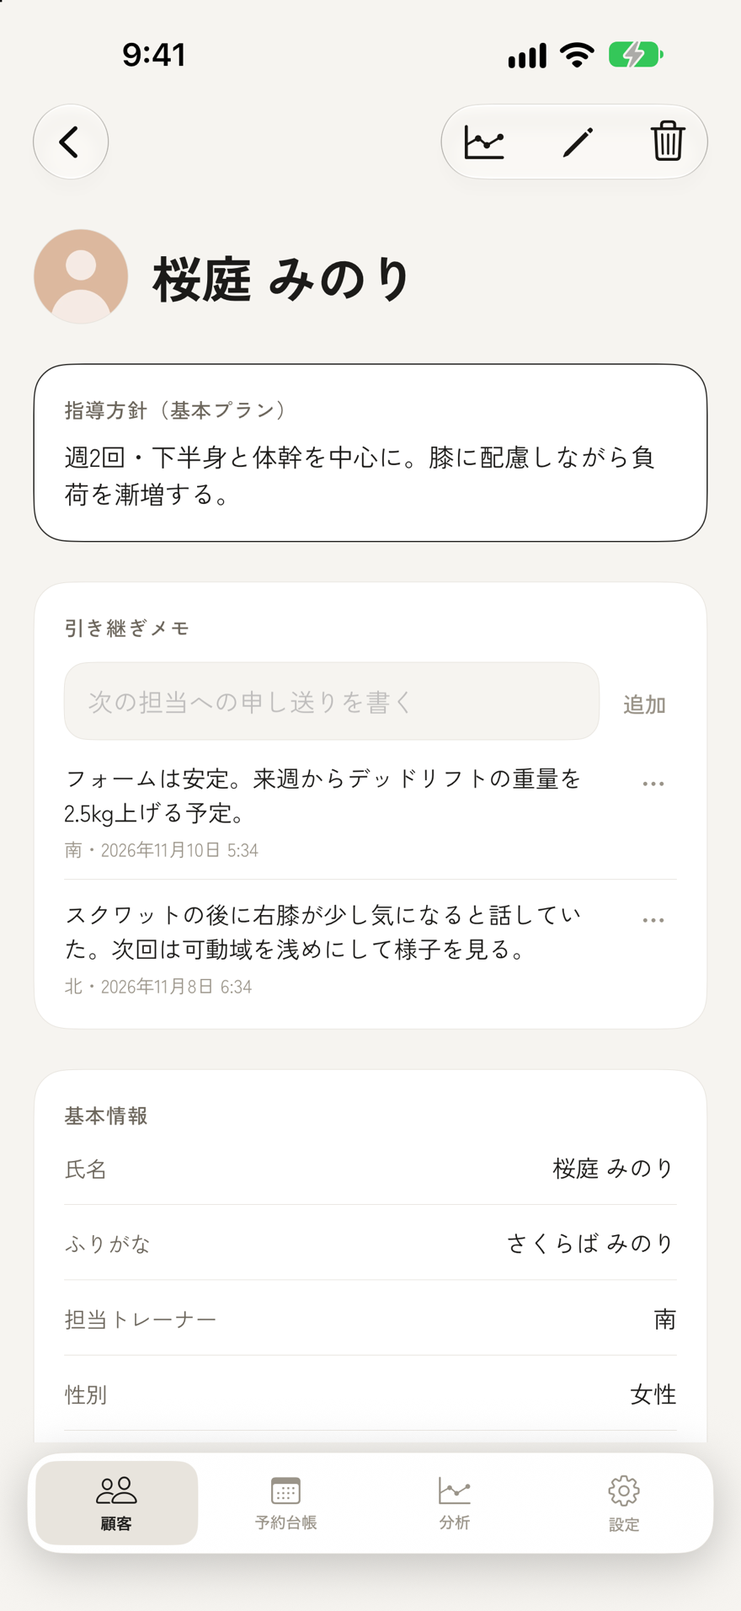
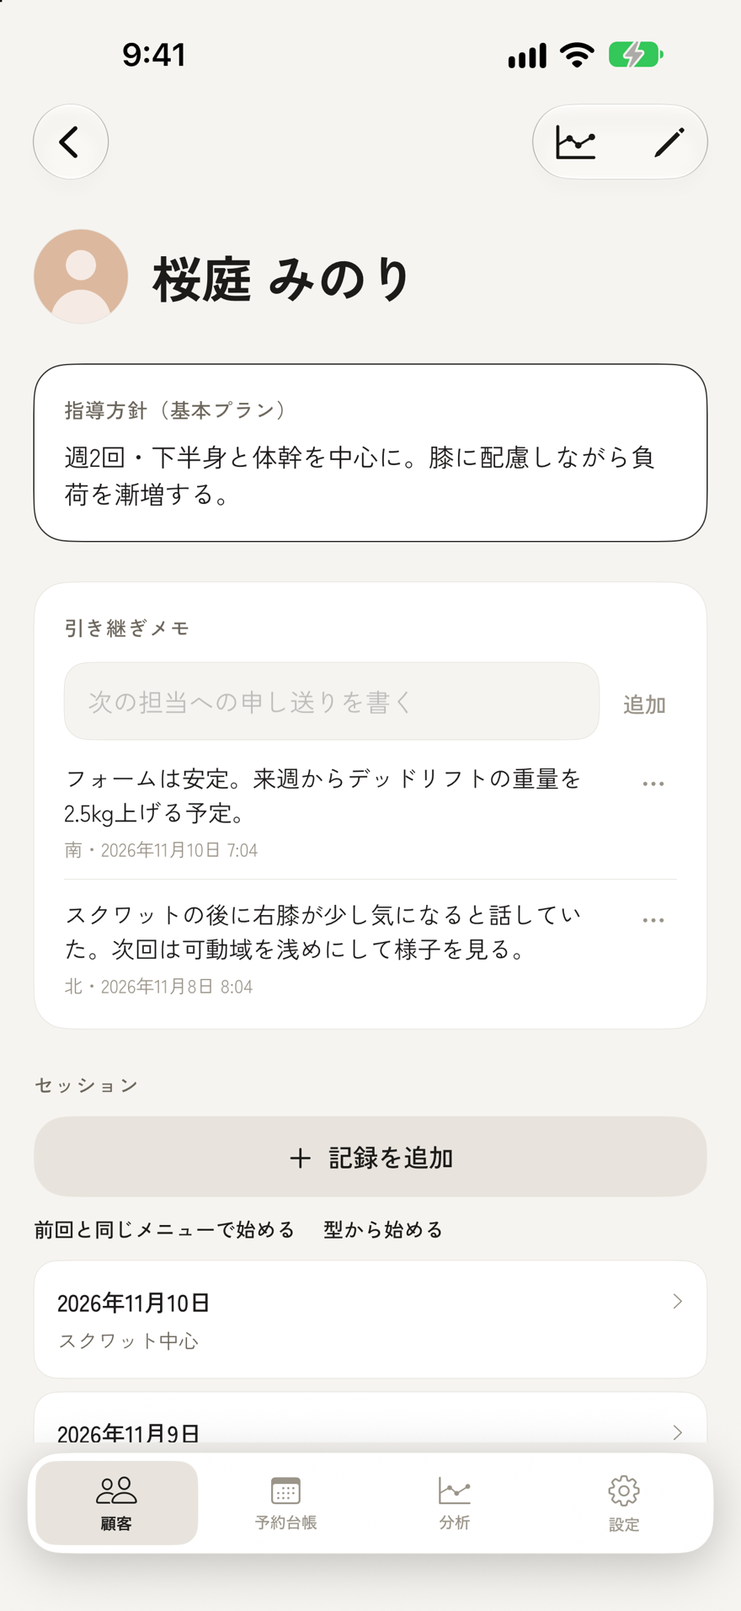
KATACHI + 使い方ガイドをアプリ 1.2 の画面に合わせる
- 設定の新しい並び（店舗情報・スタッフ・記録の設定・データの書き出しとバックアップ）に合わせて場所の説明を直す
- カルテの並び（方針・引き継ぎメモのすぐ下に「記録を追加」）、前回と同じメニュー、種目のまとめ選び、記録のあとの次の一手を追記
- 顧客一覧の前回/次回・今日の予約・見本の顧客、分析の「しばらく来ていない顧客」を追記
- 最初の設定から料金案内の手順を外す
- 画面7枚を 1.2.0 で撮り直し

diff --git a/katachi-plus-guide.html b/katachi-plus-guide.html
@@ -57,23 +57,23 @@
     <header class="guide-head">
       <a class="back" href="./katachi-plus.html">← KATACHI + の紹介へ</a>
       <h1>KATACHI + の<wbr>使い方</h1>
-      <div class="updated">2026年11月10日 更新</div>
+      <div class="updated">2026年11月10日 更新・バージョン 1.2 の画面に合わせています</div>
       <p class="lede">店舗を作るところから、毎日の記録、スタッフやお客さまとの共有までを説明します。最初の記録までは、下の3ステップだけです。</p>
 
       <h2 id="quick">最初の記録まで、3ステップ</h2>
-      <p>アプリを開くと案内が出るので、「自分の店舗を作る」を選んで店舗名を入れます。あとは次の3つです。</p>
+      <p>アプリを開くと案内が出るので、「自分の店舗を作る」を選んで店舗名を入れます。あとは次の3つです。試すだけなら、顧客の画面の「見本の顧客を入れてみる」で架空の顧客を1人入れられます。</p>
       <ol class="quick-steps">
         <li>
-          <span class="shot"><img src="./assets/screens/katachi-plus-kokyaku.png" alt="顧客の一覧。上に「顧客を追加」のボタンがある" width="880" height="1912"><span class="tap" style="left:5%;top:33.1%;width:90%;height:5.2%" aria-hidden="true"></span></span>
+          <span class="shot"><img src="./assets/screens/katachi-plus-kokyaku.png" alt="顧客の一覧。上に「顧客を追加」のボタンがある" width="880" height="1912"><span class="tap" style="left:5%;top:42.7%;width:90%;height:5.5%" aria-hidden="true"></span></span>
           <div><h3>顧客を追加する</h3><p>「顧客」タブの「顧客を追加」を押します。</p></div>
         </li>
         <li>
-          <span class="shot"><img src="./assets/screens/katachi-plus-tsuika.png" alt="顧客を追加する画面。氏名の入力欄がある" width="880" height="1912"><span class="tap" style="left:6%;top:32.9%;width:88%;height:5.2%" aria-hidden="true"></span></span>
+          <span class="shot"><img src="./assets/screens/katachi-plus-tsuika.png" alt="顧客を追加する画面。氏名の入力欄がある" width="880" height="1912"><span class="tap" style="left:8%;top:33.5%;width:84%;height:5.6%" aria-hidden="true"></span></span>
           <div><h3>氏名を入れる</h3><p>必須は氏名だけです。右上の「追加」で保存します。</p></div>
         </li>
         <li>
-          <span class="shot"><img src="./assets/screens/katachi-plus-record.png" alt="セッション記録の画面。種目ごとにセットが並び、下に「種目を追加」がある" width="880" height="1912"><span class="tap" style="left:5%;top:76.3%;width:90%;height:5.2%" aria-hidden="true"></span></span>
-          <div><h3>セッションを記録する</h3><p>顧客を開いて下へ送り、「セッション」の「記録を追加」を押します。種目を選んでセットを足し、「完了」。</p></div>
+          <span class="shot"><img src="./assets/screens/katachi-plus-karte.png" alt="顧客のカルテ。指導方針と引き継ぎメモの下に「記録を追加」がある" width="880" height="1912"><span class="tap" style="left:5%;top:69.7%;width:90%;height:5.7%" aria-hidden="true"></span></span>
+          <div><h3>セッションを記録する</h3><p>顧客を開いて「記録を追加」を押します。種目を選んでセットを足し、「完了」。</p></div>
         </li>
       </ol>
 
@@ -159,18 +159,16 @@
     </ul>
 
     <h3 id="first">最初の設定</h3>
-    <p>はじめてアプリを開くと、案内の画面が順に出ます。</p>
+    <p>はじめてアプリを開くと、案内の画面が順に出ます。料金の案内はここでは出ません。プランは、必要になったときに設定の「ご契約」から選べます。</p>
     <ol class="steps">
       <li><strong>ようこそ</strong>：できることを確かめて「次へ」を押します。</li>
       <li><strong>同意</strong>：「利用規約を読む」「プライバシーポリシーを読む」で内容を確かめ、4つの項目すべてにチェックを入れて「同意して始める」を押します。</li>
-      <li><strong>iCloud の確認</strong>：「iCloud を使えます」と出れば、そのまま「次へ」。</li>
-      <li><strong>使い方を選ぶ</strong>：自分で店舗を開くなら「自分の店舗を作る」、オーナーから招待されたなら「招待されて参加する」を選びます。</li>
-      <li><strong>ご契約のご案内</strong>：プランを選んで購入するか、「まず無料で使う（顧客5人まで）」で先に進みます。</li>
+      <li><strong>使い方を選ぶ</strong>：自分で店舗を開くなら「自分の店舗を作る（オーナー）」、オーナーから招待されたなら「招待されて参加する（スタッフ）」を選びます。まだ決められないときは「あとで決める」で先に進めます。</li>
       <li>「準備ができました」と出たら「はじめる」を押します。</li>
     </ol>
     <details class="more">
-      <summary>「iCloud にサインインしていません」と出たとき</summary>
-      <p>iPhone の設定アプリを開き、上部の Apple アカウントでサインインして「iCloud」をオンにしてから、「もう一度確認」を押します。iCloud が使えなくても先へ進めますが、店舗の共有はできません。</p>
+      <summary>「iCloud の確認」の画面が出たとき</summary>
+      <p>iCloud が使える状態なら、この画面は出ません。出たときは、iPhone の設定アプリを開き、上部の Apple アカウントでサインインして「iCloud」をオンにしてから、「もう一度確認」を押します。iCloud が使えなくても先へ進めますが、店舗の共有はできません。</p>
     </details>
     <details class="more">
       <summary>案内をもう一度見たいとき</summary>
@@ -190,7 +188,7 @@
       <tr><th>ヨガ</th><td>ポーズごとに呼吸数・左右・バリエーションを記録します。</td></tr>
       <tr><th>ストレッチ</th><td>部位ごとに保持時間と強さ、前後の柔軟性（cm）を記録します。</td></tr>
     </table>
-    <p>店舗を作ると、その業種でよく使う種目と、同意書のひな形が最初から入っています。業種はあとから設定の「業種」で変えられ、変えてもこれまでの記録や種目はそのまま残ります。</p>
+    <p>店舗を作ると、その業種でよく使う種目と、同意書のひな形が最初から入っています。業種はあとから設定の「店舗情報」にある「業種」で変えられ、変えてもこれまでの記録や種目はそのまま残ります。</p>
     <h4>店舗を切り替える</h4>
     <p>「顧客」タブ上部の店舗名を押すと、店舗の一覧が出ます。いくつかの店舗を持っている・参加しているときは、ここで切り替えます。「予約台帳」「分析」「設定」の各タブは、ここで選んだ店舗の内容になります。</p>
 
@@ -205,23 +203,31 @@
           <li>「氏名」を入れます。必須はこれだけで、ほかの項目はあとから入れられます。</li>
           <li>右上の「追加」で保存します。</li>
         </ol>
-        <p>はじめて追加するときに「自分の担当名」を聞かれます。スタッフと使うなら入れておくと、一覧を自分の担当だけに絞り込めます（<a href="#staffname">担当名と、担当での絞り込み</a>）。1人で使うなら「あとで設定する」で構いません。</p>
+        <p>スタッフと使っている店舗では、はじめて追加するときに「自分の担当名」を聞かれます（<a href="#staffname">担当名と、担当での絞り込み</a>）。1人で使っている店舗では聞かれません。</p>
+        <h4>顧客の一覧の見方</h4>
+        <p>行には、名前の下に前回のセッションの日付と、次回の予定が出ます。並び順（名前・最終来店日・次回予定）は、見出し「顧客」の右で変えます。今日の予約があるときは、いちばん上に「今日の予約」が出て、名前を押すとその顧客のカルテが開きます。</p>
         <h4>カルテの見方</h4>
-        <p>一覧の顧客を押すと、カルテが開きます。上から「指導方針（基本プラン）」「引き継ぎメモ」「基本情報」「予約」「カウンセリング」と並び、その下に「セッション」「KATACHI 連携」「同意書」「体組成・周径」「姿勢写真」が続きます。</p>
+        <p>一覧の顧客を押すと、カルテが開きます。上から「指導方針（基本プラン）」「引き継ぎメモ」「セッション」と並び、その下に「基本情報」「予約」「カウンセリング」「KATACHI 連携」「同意書」「体組成・周径」「姿勢写真」が続きます。iPad と Mac では2列になります。</p>
         <p>引き継ぎメモは「次の担当への申し送りを書く」に書いて「追加」を押します。書いた人と日時が残り、店舗のスタッフ全員が見られます。</p>
+        <p>顧客の編集は右上のペンのボタン、削除はカルテのいちばん下の「この顧客を削除」です。</p>
       </div>
       <figure>
         <span class="shot"><img src="./assets/screens/katachi-plus-karte.png" alt="KATACHI + の顧客カルテ。指導方針と引き継ぎメモが上に並ぶ" width="880" height="1912" loading="lazy"></span>
-        <figcaption>カルテ。方針と引き継ぎメモが上に。</figcaption>
+        <figcaption>カルテ。方針と引き継ぎメモのすぐ下に「記録を追加」。</figcaption>
       </figure>
     </div>
+    <details class="more">
+      <summary>まず試したいときは、見本の顧客</summary>
+      <p>顧客がまだ1人もいない店舗（自分の店舗で、誰とも共有していないもの）では、顧客の画面に「見本の顧客を入れてみる」が出ます。押すと、架空の顧客が1人、過去のセッション3回ぶんと一緒に入ります。前回の値が出るようす、グラフ、顧客へのレポートを、自分の顧客を入れる前に試せます。</p>
+      <p>見本の顧客は、無料の5人には数えません。いらなくなったら、一覧の上の「見本を消す」で消せます。</p>
+    </details>
     <details class="more">
       <summary>カルテに入れられる項目</summary>
       <table>
         <tr><th>基本情報</th><td>顔写真、氏名、ふりがな、担当トレーナー、性別、生年月日、電話、メール</td></tr>
         <tr><th>目的・指導方針</th><td>目的（業種ごとの候補から選べます）、指導方針（基本プラン）</td></tr>
         <tr><th>カウンセリング</th><td>数値目標、気になる部位（人体図）、普段の運動、運動歴、食生活の概要。ピラティス・ヨガ・ストレッチの店舗では、業種ごとの質問も加わります。</td></tr>
-        <tr><th>次回予定（メモ）</th><td>次回予定日と次回担当のメモです。予約台帳とは別のものです。</td></tr>
+        <tr><th>次回予定（メモ）</th><td>次回予定日と次回担当のメモです。予約台帳に予定の予約があるときは、カルテと一覧にはそちらが「次回」として出ます。</td></tr>
         <tr><th>配慮事項・メモ</th><td>自由に書けます。配慮事項には、体調面で気をつけることだけを書き、病名・既往歴・服薬は書かないでください。</td></tr>
       </table>
       <p>「気になる部位」は、正面と背面の人体図で部位を押して選びます。もう一度押すと外れます。</p>
@@ -231,12 +237,13 @@
     <div class="guide-split">
       <div>
         <ol class="steps">
-          <li>顧客のカルテを開いて下へ送り、「セッション」の「記録を追加」を押します。</li>
-          <li>「種目を追加」で種目を選びます。前に同じ種目を記録していれば、「前回：60kg×10 ・ 60kg×8」のように前回の内容が出ます。</li>
+          <li>顧客のカルテを開き、「セッション」の「記録を追加」を押します。前に記録があれば、「前回と同じメニューで始める」で、前回の種目が並んだ状態から始められます。</li>
+          <li>「種目を追加」を押し、行う種目にチェックを付けて、右上の「追加」を押します。いくつでもまとめて選べ、上の欄で検索もできます。前に同じ種目を記録していれば、「前回：60kg×10 ・ 60kg×8」のように前回の内容が出ます。</li>
           <li>「セットを追加」でセットを足します。直前のセットと同じ値が入った状態で増えるので、同じ重量・回数なら数字を直す必要はありません。</li>
           <li>終わったら「完了」を押します。入力するたびに自動で保存されるので、保存ボタンはありません。</li>
         </ol>
-        <p>記録の日付は、記録を始めた日になります。過去の分を入れるときは、記録画面の上の「日付」を変えてください。</p>
+        <p>記録を閉じると、カルテに「記録しました」と出て、そこから「レポートを送る」「次回の予約を入れる」に進めます。</p>
+        <p>記録の日付は、記録を始めた日になります。過去の分を入れるときは、記録画面のいちばん上の行の「変更」を押して、日付を変えてください。記録した人も同じ場所で変えられます。</p>
         <p>予約台帳を使っているなら、予約から直接記録を始めることもできます（<a href="#booking">予約台帳を使う</a>）。</p>
       </div>
       <figure>
@@ -246,8 +253,8 @@
     </div>
     <details class="more">
       <summary>毎回同じメニューなら「メニューの型」</summary>
-      <p>設定の「記録・担当の設定」にある「メニューの型」で、「追加」から型を作れます。型の名前を付け、種目を行う順に押して選びます。型を作っておくと、カルテの「セッション」に「型から始める」が出て、種目が並んだ状態で記録を始められます。型に入るのは種目の並びだけで、重量や回数はその日に入れます。</p>
-      <p>種目の追加・並べ替え・非表示は、同じ「記録・担当の設定」の「種目ライブラリ」で行えます。</p>
+      <p>設定の「記録の設定」（Mac は店舗設定の「記録・担当の設定」）にある「メニューの型」で、「追加」から型を作れます。型の名前を付け、種目を行う順に押して選びます。型を作っておくと、カルテの「セッション」に「型から始める」が出て、種目が並んだ状態で記録を始められます。型に入るのは種目の並びだけで、重量や回数はその日に入れます。</p>
+      <p>種目の追加・並べ替え・非表示は、同じ場所の「種目ライブラリ」で行えます。</p>
     </details>
     <details class="more">
       <summary>業種ごとの入力欄</summary>
@@ -267,11 +274,11 @@
     <h3 id="report">顧客へのレポートを送る</h3>
     <p>その日の記録を PDF にして、顧客に送れます。ご契約がなくても作れます。</p>
     <ol class="steps">
-      <li>セッション記録の右上の「レポート」を押します。カルテのセッションを長押しして「顧客へのレポートを作成」を選んでも開けます。</li>
+      <li>記録を閉じたあとにカルテに出る「レポートを送る」か、セッション記録の右上の「レポート」を押します。カルテのセッションを長押しして「顧客へのレポートを作成」を選んでも開けます。</li>
       <li>必要なら「トレーナーからのコメント（任意）」を書きます。下に、できあがりの PDF が表示されます。</li>
       <li>「共有」から、LINE・メール・AirDrop などで顧客に送ります（Mac は「印刷」「書き出す」）。</li>
     </ol>
-    <p>レポートには、その日の記録、当日のコンディション、最近の推移が入ります。コメントは保存されず、そのレポートにだけ入ります。</p>
+    <p>レポートには、その日の記録、当日のコンディション、最近の推移が入ります。コメントは書いた端末に残り、同じ記録のレポートを開き直すと元のまま出ます。</p>
 
     <h3 id="booking">予約台帳を使う</h3>
     <p>LINE や電話、外部の予約サービスで受けた予約を、店舗のみんなで記録する台帳です。顧客が自分で予約する機能や、顧客への通知はありません。</p>
@@ -300,7 +307,7 @@
     <h3 id="progress">体の変化を残す・見る</h3>
     <h4>体組成・周径</h4>
     <p>カルテの「体組成・周径」で「測定を追加」を押し、体重・体脂肪率、周径（胸・ウエスト・ヒップ・太もも・二の腕）を入れます。セッションの前と後に柔軟性（cm）を測って残すこともできます。入力欄の横には、前回の値が出ます。</p>
-    <p>ヨガ・ストレッチの店舗では、最初は体組成・周径が表示されず、「柔軟性チェック」になっています。使いたいときは、設定の「業種」で「体組成・周径を表示する」をオンにします。</p>
+    <p>ヨガ・ストレッチの店舗では、最初は体組成・周径が表示されず、「柔軟性チェック」になっています。使いたいときは、設定の「店舗情報」にある「業種」で「体組成・周径を表示する」をオンにします。</p>
     <h4>姿勢写真</h4>
     <p>カルテの「姿勢写真」で「写真を追加」を押し、向き（正面・側面・背面）を選んで、撮影するかライブラリから選びます。写真が2枚以上になると「比較」が出て、同じ向きの写真を前と後で並べ、格子線を重ねて見比べられます。</p>
     <h4>グラフ</h4>
@@ -315,7 +322,7 @@
     <p>保存した同意書は押すと開き、「共有」から送ったり保存したりできます（Mac は「印刷」「書き出す」）。署名は iPhone か iPad で行ってください。</p>
     <details class="more">
       <summary>同意書の文面を店舗に合わせる</summary>
-      <p>設定の「同意書」にある「同意書テンプレート」で直せます。最初に入っているのはひな形なので、使う前に一度目を通してください。本文の {店舗名} と {店舗の連絡先} は、署名のときに自動で差し込まれます。連絡先は、設定の店舗情報で入れておきます。</p>
+      <p>設定の「記録の設定」（Mac は店舗設定の「同意書」）にある「同意書テンプレート」で直せます。最初に入っているのはひな形なので、使う前に一度目を通してください。本文の {店舗名} と {店舗の連絡先} は、署名のときに自動で差し込まれます。連絡先は、設定の店舗情報で入れておきます。</p>
     </details>
 
     <h2 id="team">スタッフと使う</h2>
@@ -325,7 +332,7 @@
     <div class="guide-split">
       <div>
         <ol class="steps">
-          <li>「設定」タブを開きます（Mac は左の「店舗設定」）。「店舗情報」の下に、招待の欄があります。</li>
+          <li>「設定」タブの「スタッフ」を開きます（Mac は左の「店舗設定」にある「スタッフを招待」）。</li>
           <li>「メールアドレス」に、スタッフの <strong>Apple アカウントのメールアドレス</strong>を入れて「招待する」を押します。</li>
           <li>「招待しました」と出たら、「招待を送る（LINE・メールなど）」で招待のリンクをスタッフに送ります。「リンクをコピー」でコピーして、自分で貼り付けて送ることもできます。</li>
           <li>スタッフが参加すると、「メンバー」の一覧で「参加済み」と表示されます。</li>
@@ -333,8 +340,8 @@
         <div class="callout">参加できるのは、招待したメールアドレスの Apple アカウントだけです。リンクを転送されただけの人は参加できません。</div>
       </div>
       <figure>
-        <span class="shot"><img src="./assets/screens/katachi-plus-settei.png" alt="KATACHI + の設定タブ。ご契約、使い方、店舗情報の順に並ぶ" width="880" height="1912" loading="lazy"></span>
-        <figcaption>設定タブ。店舗情報の下に招待の欄。</figcaption>
+        <span class="shot"><img src="./assets/screens/katachi-plus-settei.png" alt="KATACHI + の設定タブ。ご契約、使い方、店舗の順に並び、店舗の中にスタッフの行がある" width="880" height="1912" loading="lazy"></span>
+        <figcaption>設定タブ。「店舗」の中の「スタッフ」から招待。</figcaption>
       </figure>
     </div>
     <table>
@@ -346,7 +353,7 @@
     <ol class="steps">
       <li>App Store で KATACHI + を入れ、最初の設定を進めます。使い方は「招待されて参加する」を選びます。</li>
       <li><strong>iPhone・iPad</strong>：オーナーから届いたリンクを押すと、そのまま参加できます。</li>
-      <li>「（店舗名）に参加しました」と出れば完了です。参加した店舗が開きます。</li>
+      <li>「（店舗名）に参加しました」と出れば完了です。参加した店舗が開きます。続けて「この店舗での名前」を聞かれるので、自分の名前を入れます（あとから変えられます）。</li>
     </ol>
     <p>参加するには、スタッフ自身のご契約が必要です。ご契約の前にリンクを開いたときはプランの画面が出て、購入が済むと自動で参加します。</p>
     <details class="more">
@@ -355,18 +362,18 @@
     </details>
 
     <h3 id="staffname">担当名と、担当での絞り込み</h3>
-    <p>スタッフが何人かいる店舗で、「自分の担当の顧客だけ」を見るためのしくみです。1人で使うなら、設定しなくても困りません。</p>
+    <p>スタッフが何人かいる店舗で、「自分の担当の顧客だけ」を見るためのしくみです。1人で使っている店舗（共有していない・担当トレーナーを登録していない・顧客に担当を入れていない）では、担当の並びは表示されません。</p>
     <table>
       <tr><th>自分の担当名</th><td>この端末を使っている人の名前です。設定の「この端末」で入れます（Mac は ⌘, の「設定」ウインドウ）。顧客一覧の「自分」の絞り込み、記録した人、予約の担当に使われます。</td></tr>
-      <tr><th>担当トレーナー</th><td>店舗の担当者の名簿です。顧客一覧の担当の並びの右端にある「＋」か、設定の「記録・担当の設定」の「担当トレーナー」で、追加・名前の変更・削除ができます。</td></tr>
+      <tr><th>担当トレーナー</th><td>店舗の担当者の名簿です。設定の「記録の設定」（Mac は店舗設定の「記録・担当の設定」）にある「担当トレーナー」か、顧客一覧の担当の並びの右端にある「＋」で、追加・名前の変更・削除ができます。</td></tr>
       <tr><th>担当の並び</th><td>顧客一覧と予約台帳の上にある「自分」「全員」と担当者の名前です。押すと、その人が担当の顧客・予約だけになります。見え方を絞るだけで、スタッフはどの顧客も開けます。</td></tr>
     </table>
     <p>顧客の担当は、カルテの編集で「担当トレーナー」から選びます。新しく追加する顧客には、自分の担当名が最初から入ります。</p>
 
     <h3 id="remove">スタッフを外す・店舗から抜ける</h3>
     <ul>
-      <li><strong>オーナー</strong>：設定の「メンバー」で、外す人の「外す」を押します。押す前に相手を確かめてください。外れたスタッフの端末からは、次にアプリを開いたときに店舗の記録が消えます。すでに書き出した PDF などは残ります。</li>
-      <li><strong>スタッフ</strong>：設定の下の「この店舗から抜ける」を押します。この端末から店舗のデータが消えます。オーナー側のデータは消えません。</li>
+      <li><strong>オーナー</strong>：設定の「スタッフ」にある「メンバー」で、外す人の「外す」を押します。押す前に相手を確かめてください。外れたスタッフの端末からは、次にアプリを開いたときに店舗の記録が消えます。すでに書き出した PDF などは残ります。</li>
+      <li><strong>スタッフ</strong>：設定の「スタッフ」にある「この店舗から抜ける」を押します。この端末から店舗のデータが消えます。オーナー側のデータは消えません。</li>
     </ul>
 
     <h2 id="link">お客さまの KATACHI とつなぐ</h2>
@@ -382,8 +389,8 @@
 
     <h3 id="link-start">連携を始める（オーナー）</h3>
     <ol class="steps">
-      <li>顧客のカルテを開き、「KATACHI 連携」の「お客さまのメール」に、お客さまが iPhone の iCloud で使っている <strong>Apple アカウントのメールアドレス</strong>を入れます。</li>
-      <li>「お客さまの KATACHI とつなぐ」を押します。状態が「招待中」になります。</li>
+      <li>顧客のカルテの「KATACHI 連携」で、「お客さまの KATACHI とつなぐ」を押して開きます。</li>
+      <li>「お客さまのメール」に、お客さまが iPhone の iCloud で使っている <strong>Apple アカウントのメールアドレス</strong>を入れて、「お客さまの KATACHI とつなぐ」を押します。状態が「招待中」になります。</li>
       <li>「招待を送る（LINE・メールなど）」で、招待の文面とリンクをお客さまに送ります。</li>
       <li><strong>お客さまの操作</strong>：KATACHI を開き、設定の「トレーナーとの連携」で「リンクを貼り付けて参加」を押して、届いたリンクを貼り付けます。内容を確かめて「同意して参加」を押すと、つながります。</li>
       <li>カルテの状態が「連携中」になれば完了です。</li>
@@ -414,6 +421,7 @@
           <li>上部で「店舗全体」と担当者を切り替えます。</li>
           <li>期間は「6か月」「12か月」から選べます。</li>
           <li>店舗全体のときは、「担当者ごと」の表も出ます。行を押すと、その担当者の分析に切り替わります。</li>
+          <li>「しばらく来ていない顧客」に、最後のセッションから30日以上たっている顧客が、空いている日数の長い順に出ます。</li>
         </ul>
         <p>実施率は、実施済み ÷（実施済み＋無断キャンセル）で計算しています。</p>
       </div>
@@ -424,7 +432,7 @@
     </div>
 
     <h3 id="export">書き出しとバックアップ（オーナー）</h3>
-    <p>どれも設定の「データの書き出し」と、その下のバックアップの欄から行います。</p>
+    <p>どれも設定の「データの書き出しとバックアップ」から行います（Mac は店舗設定の「データの書き出し」と、その下のバックアップの欄）。</p>
     <table>
       <tr><th>CSV で書き出す</th><td>「顧客を CSV で書き出す」「セッションを CSV で書き出す」。Excel で開けます。</td></tr>
       <tr><th>CSV から取り込む</th><td>「取り込み用のひな形（CSV）」に記入して、「顧客を CSV から取り込む」を押します。紙やほかのアプリからの乗り換えに使います。</td></tr>
@@ -467,21 +475,25 @@
     <p>セッション記録では、Return か Tab で 重量 → 回数 → 次のセット と進み、最後の回数で Return を押すと新しいセットが足されます。写真は Finder からドロップして入れられます。同意書の署名は、iPhone か iPad で行ってください。</p>
 
     <h2 id="trouble">困ったとき</h2>
-    <p>場所が分からないときの早見表と、よくあるつまずきです。</p>
+    <p>場所が分からないときの早見表と、よくあるつまずきです。早見表は iPhone・iPad の場合です。Mac では、設定の中身が左の「店舗設定」に1枚で並びます。</p>
 
     <h3 id="where">あの機能はどこ？</h3>
     <table>
       <tr><th>店舗を切り替える・増やす</th><td>「顧客」タブ上部の店舗名</td></tr>
-      <tr><th>スタッフを招待する</th><td>設定 → 「店舗情報」の下（オーナーのみ）</td></tr>
+      <tr><th>スタッフを招待する</th><td>設定 → 「スタッフ」（オーナーのみ）</td></tr>
       <tr><th>自分の担当名を変える</th><td>設定 → 「この端末」</td></tr>
-      <tr><th>担当トレーナーを足す</th><td>顧客一覧の担当の並びの「＋」</td></tr>
-      <tr><th>種目を足す・並べ替える</th><td>設定 → 「記録・担当の設定」 → 「種目ライブラリ」</td></tr>
-      <tr><th>メニューの型を作る</th><td>設定 → 「記録・担当の設定」 → 「メニューの型」</td></tr>
-      <tr><th>同意書の文面を直す</th><td>設定 → 「同意書」 → 「同意書テンプレート」</td></tr>
+      <tr><th>担当トレーナーを足す</th><td>設定 → 「記録の設定」 → 「担当トレーナー」</td></tr>
+      <tr><th>種目を足す・並べ替える</th><td>設定 → 「記録の設定」 → 「種目ライブラリ」</td></tr>
+      <tr><th>メニューの型を作る</th><td>設定 → 「記録の設定」 → 「メニューの型」</td></tr>
+      <tr><th>同意書の文面を直す</th><td>設定 → 「記録の設定」 → 「同意書テンプレート」</td></tr>
+      <tr><th>業種を変える</th><td>設定 → 「店舗情報」 → 「業種」</td></tr>
+      <tr><th>顧客の並び順を変える</th><td>顧客一覧の見出し「顧客」の右</td></tr>
+      <tr><th>顧客を削除する</th><td>カルテのいちばん下の「この顧客を削除」</td></tr>
+      <tr><th>記録の日付を変える</th><td>セッション記録のいちばん上の行の「変更」</td></tr>
       <tr><th>顧客へのレポートを作る</th><td>セッション記録の右上の「レポート」</td></tr>
       <tr><th>グラフを見る</th><td>カルテ右上のグラフのボタン</td></tr>
       <tr><th>KATACHI とつなぐ</th><td>カルテの「KATACHI 連携」（オーナーのみ）</td></tr>
-      <tr><th>CSV・バックアップ</th><td>設定 → 「データの書き出し」（オーナーのみ）</td></tr>
+      <tr><th>CSV・バックアップ</th><td>設定 → 「データの書き出しとバックアップ」（オーナーのみ）</td></tr>
       <tr><th>契約の確認・購入の復元</th><td>設定 → 「ご契約」</td></tr>
       <tr><th>アプリの中の使い方</th><td>設定 → 「使い方」 → 「使い方ガイド」</td></tr>
     </table>
